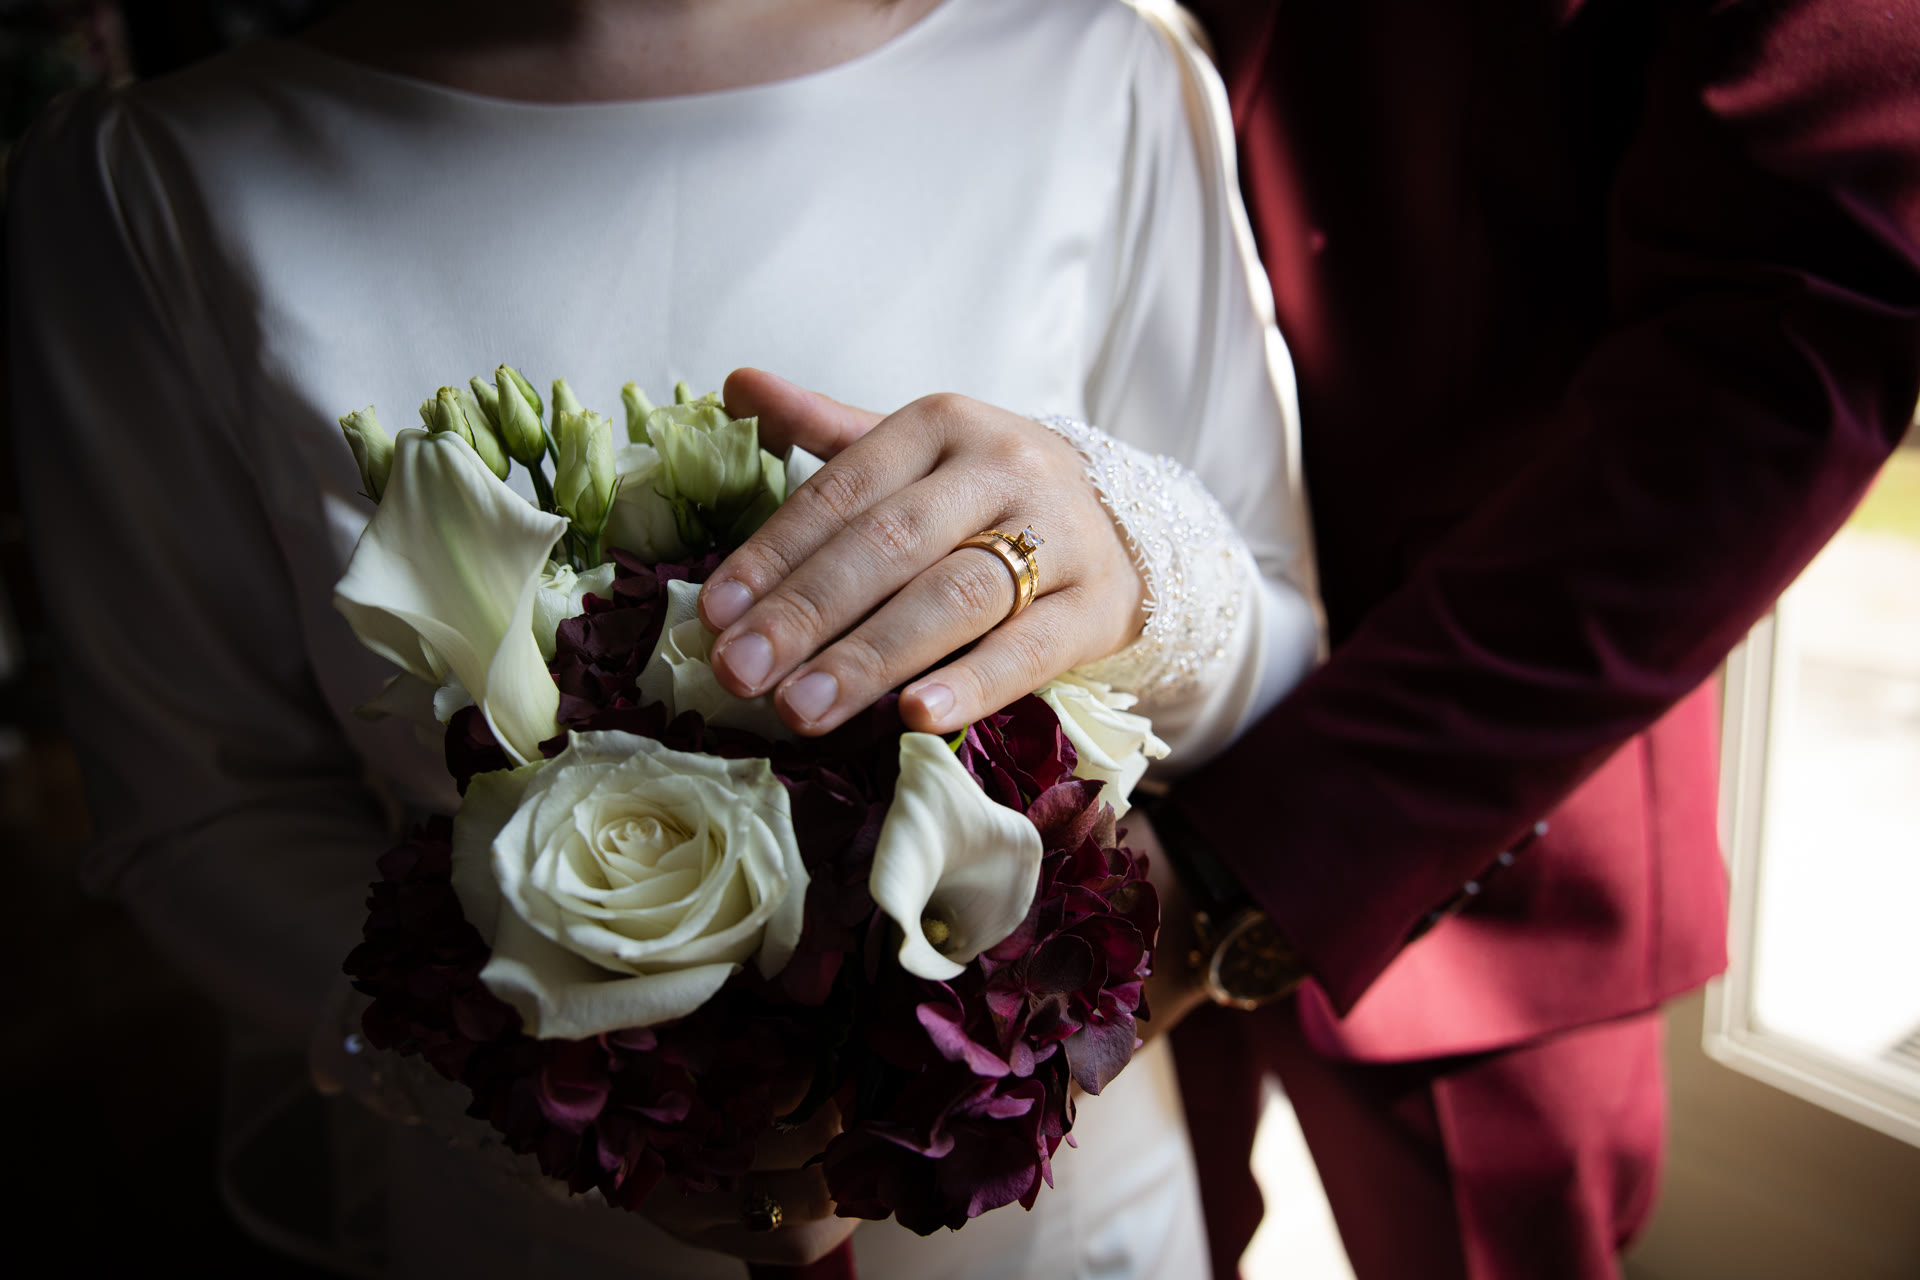
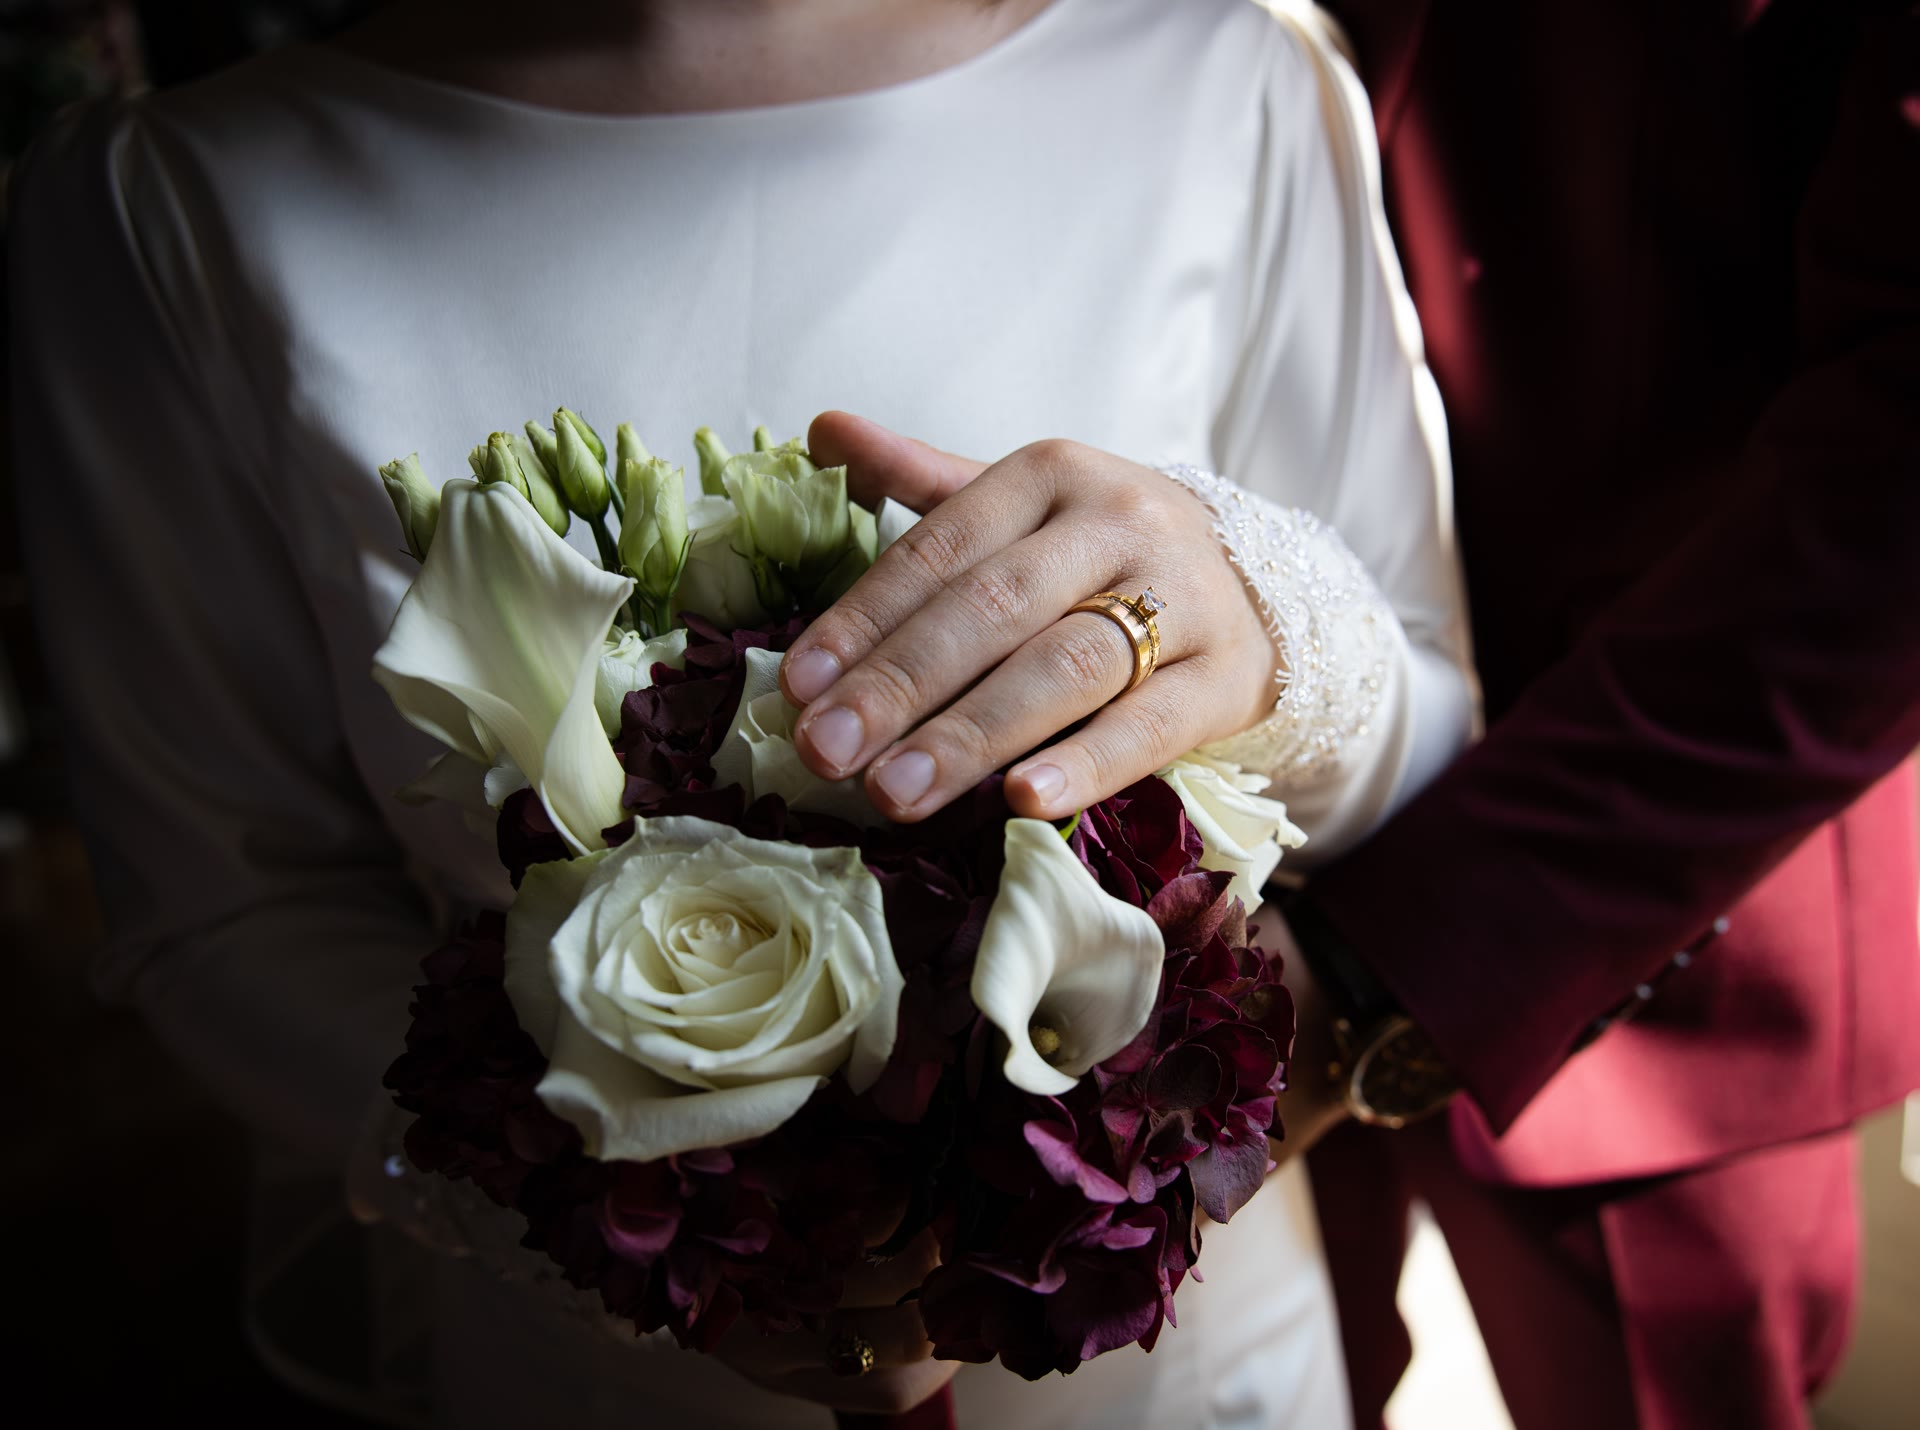
Add Holsatia matchday photography gallery; refresh Beyza photo 01
Add a NDTSV Holsatia Kiel sports/matchday photography gallery (6 photos) to
Visuelle Arbeiten, separate from the existing Social Media entry in Weiteres,
so Holsatia appears in both sections for different reasons (running the account
vs the photography itself). Thumbnail cropped 16:9 from CA1_2133. Also
regenerate Beyza & Ahmed gallery photo 01 from the updated CA1_1520.

diff --git a/src/data/projects.ts b/src/data/projects.ts
@@ -267,6 +267,27 @@ export const PROJECTS: Project[] = [
     thumbnail: '/thumbs/beyza-ahmed.jpg',
   },
   {
+    slug: 'holsatia-aura',
+    title: 'NDTSV Holsatia Kiel — Sportfotografie',
+    category: 'visuelle',
+    year: '2025/2026',
+    role: { de: 'Fotografie · Matchday · Spielerporträts', en: 'Photography · Matchday · Player Portraits' },
+    description: {
+      de: 'Sport- und Matchday-Fotografie für den NDTSV Holsatia Kiel: Spielerporträts und Spielsituationen, aufgenommen und bearbeitet in Eigenregie.',
+      en: 'Sports and matchday photography for NDTSV Holsatia Kiel: player portraits and match moments, shot and edited by me.',
+    },
+    video: { type: 'none' },
+    gallery: [
+      '/gallery/holsatia-aura/01.jpg',
+      '/gallery/holsatia-aura/02.jpg',
+      '/gallery/holsatia-aura/03.jpg',
+      '/gallery/holsatia-aura/04.jpg',
+      '/gallery/holsatia-aura/05.jpg',
+      '/gallery/holsatia-aura/06.jpg',
+    ],
+    thumbnail: '/thumbs/holsatia-aura.jpg',
+  },
+  {
     slug: 'a-second-life-trailer',
     title: 'A Second Life — Trailer',
     category: 'visuelle',
